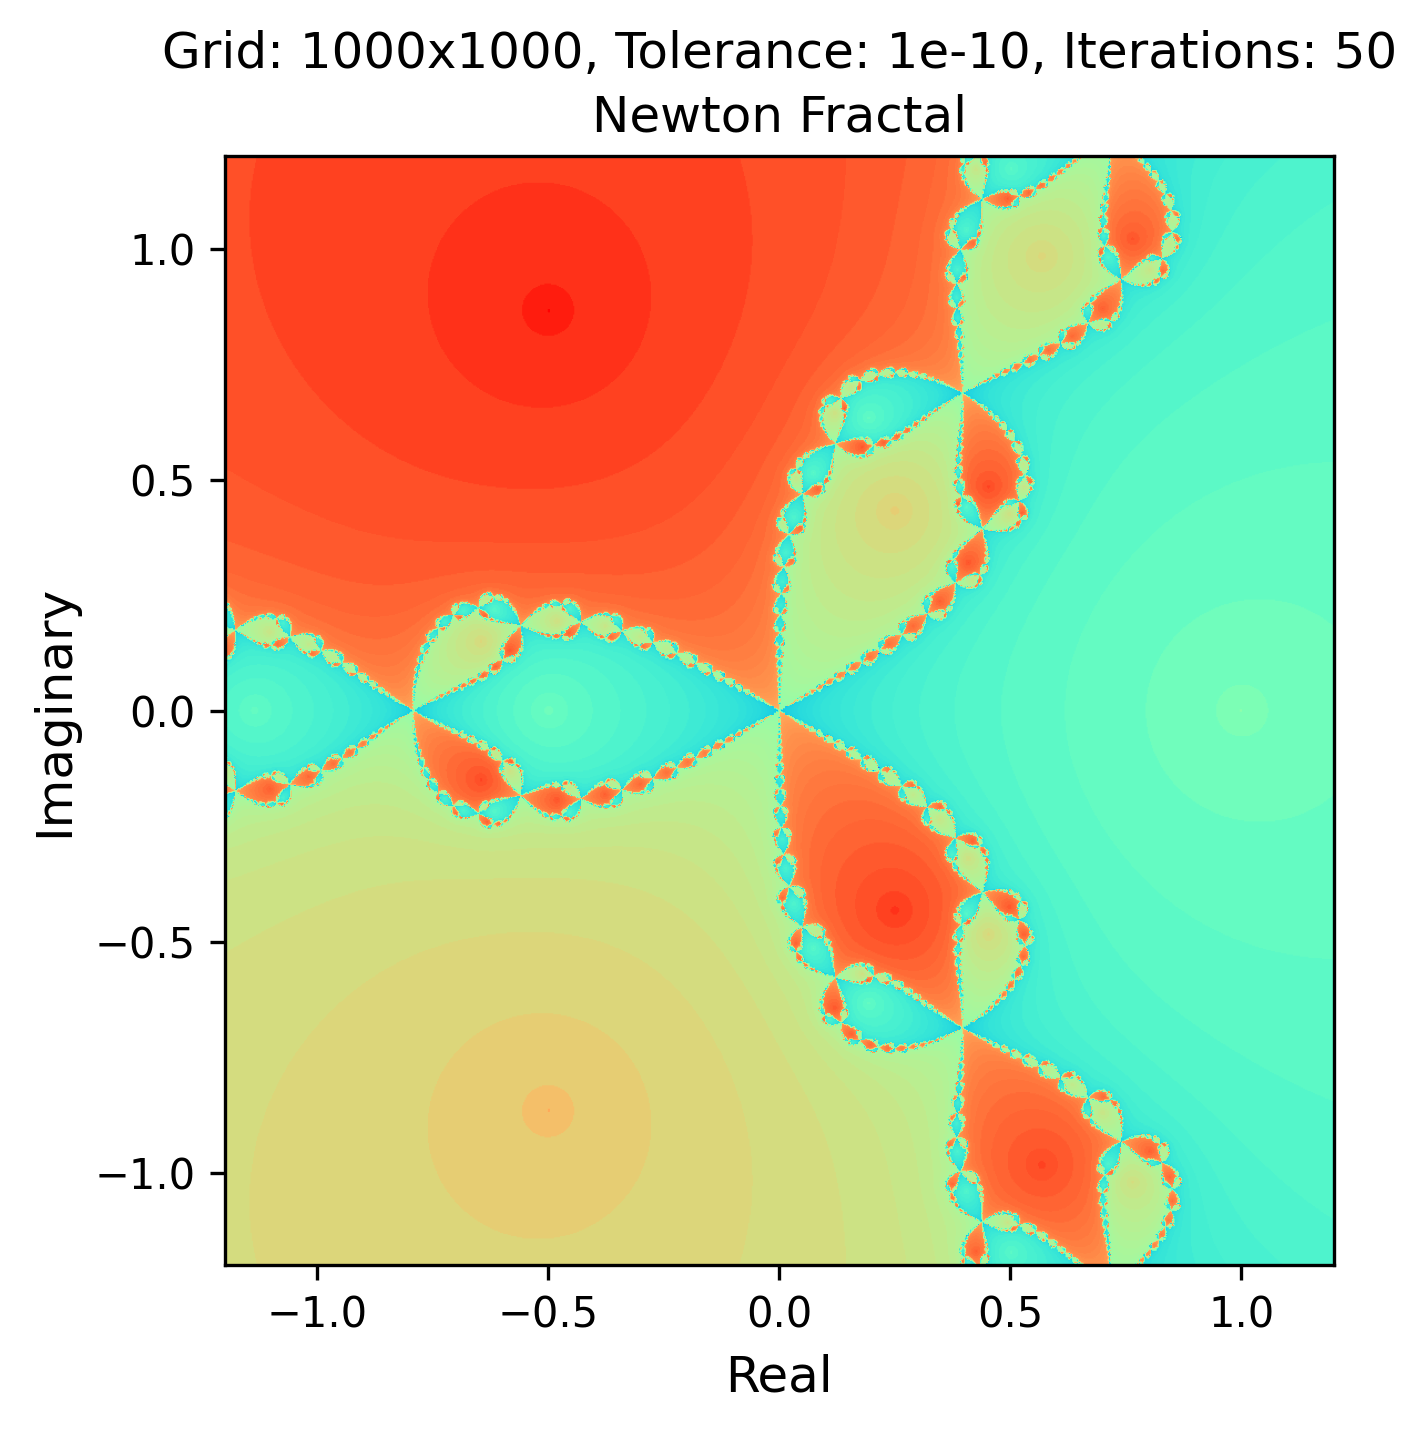
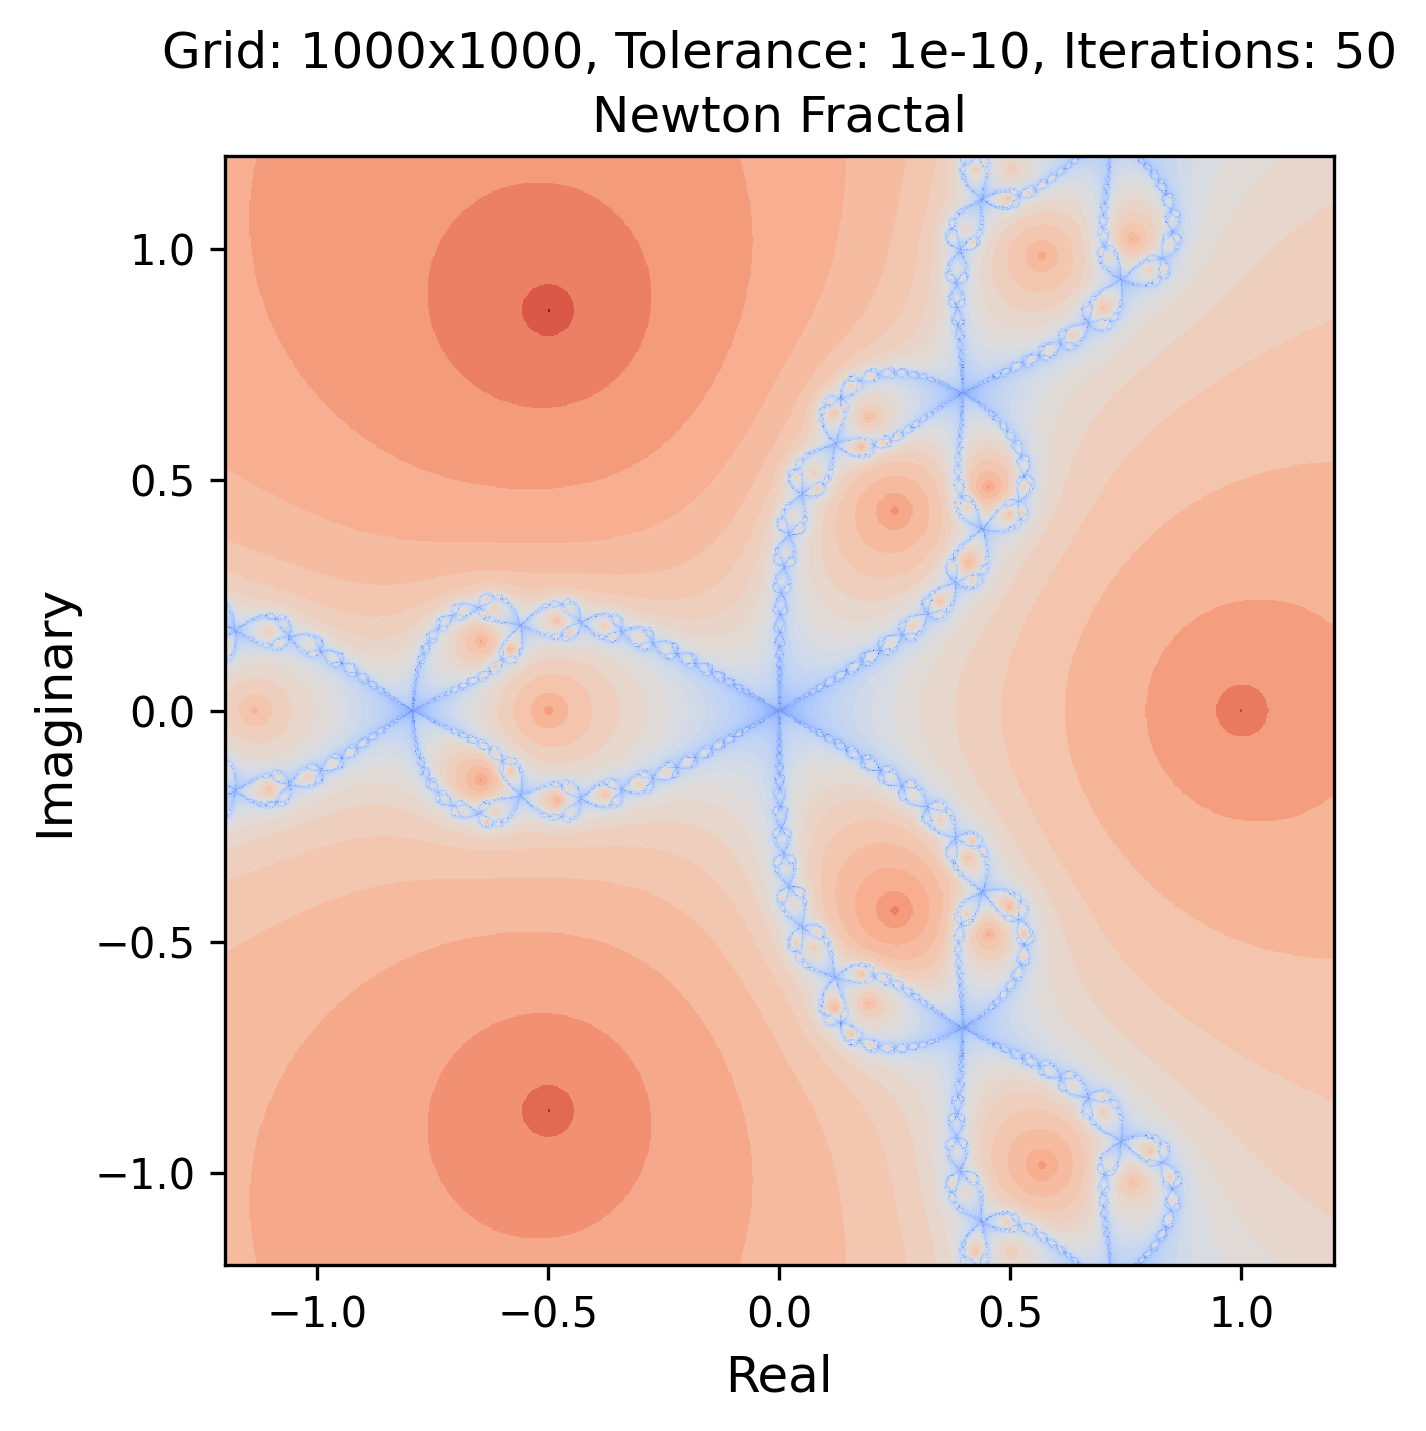
update

diff --git a/fractals.py b/fractals.py
@@ -67,7 +67,7 @@ def plot_newton_fractal(func, perform_shading=False):
     n_root = id_root(z1_list, root_list[func]).astype(int)
 
     if perform_shading:
-        n_root = n_root - 0.4 * np.log(counter / np.max(counter))
+        n_root = n_root - 8 * np.log(counter / np.max(counter))
 
     n_root_contour = np.transpose(np.reshape(n_root, (num_x, num_y)))
 
@@ -76,7 +76,8 @@ def plot_newton_fractal(func, perform_shading=False):
     plt.figure()
     plt.xlabel("$Re(z)$", fontsize=12)
     plt.ylabel("$Im(z)$", fontsize=12)
-    plt.imshow(n_root_contour, extent=[interval_left, interval_right, interval_down, interval_up], cmap='rainbow')
+    plt.imshow(n_root_contour, extent=[interval_left, interval_right, interval_down, interval_up], cmap='coolwarm',
+                interpolation='nearest')
     plt.axis('on')
     plt.title('Newton Fractal')
     plt.text(0.5, 1.08,
@@ -86,6 +87,7 @@ def plot_newton_fractal(func, perform_shading=False):
     plt.xlabel('Real')
     plt.ylabel('Imaginary')
     plt.savefig('newton-fractal.png', bbox_inches='tight', dpi=300)
+    plt.show()
     plt.close()
 
     print('Finished creating matshow plot at ' + str(datetime.datetime.now()))
